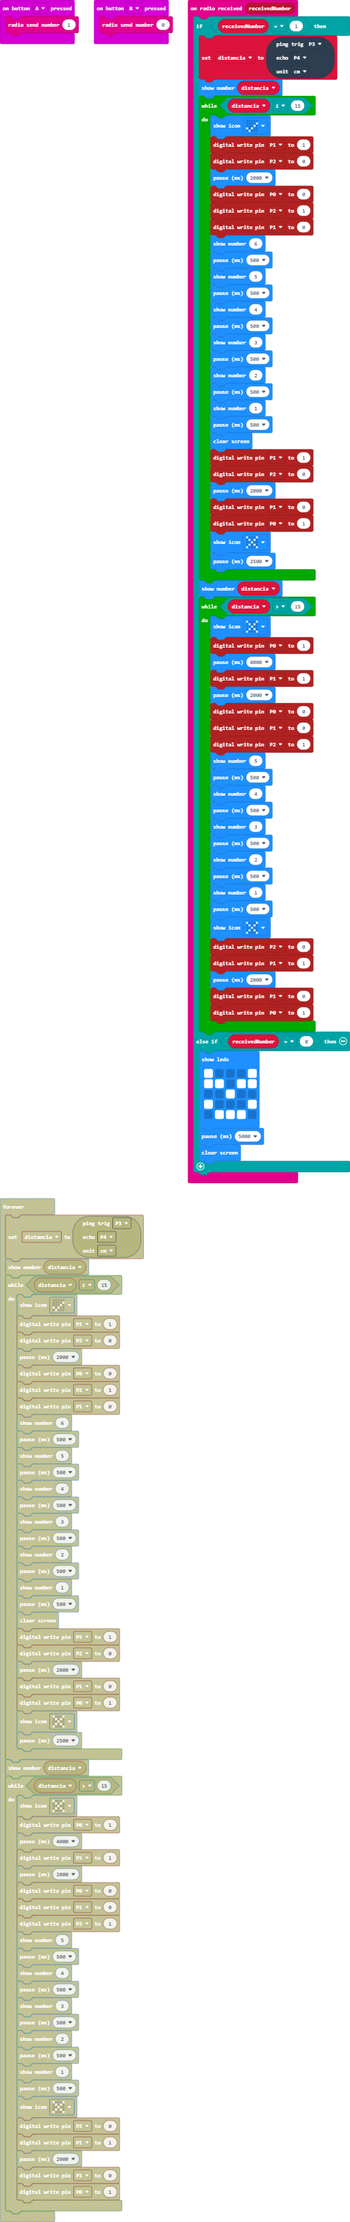
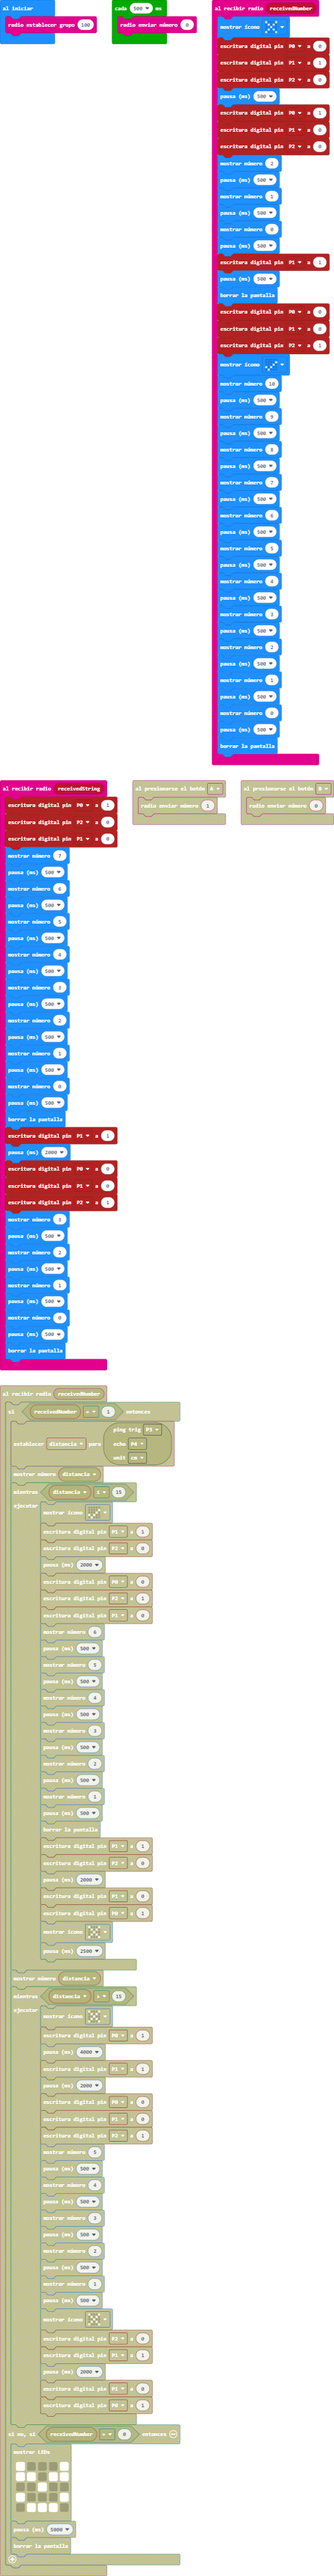
Actualizar main.blocks, main.ts

diff --git a/main.ts b/main.ts
@@ -1,86 +1,89 @@
 enum RadioMessage {
     message1 = 49434
 }
-let distancia = 0
 radio.onReceivedNumber(function (receivedNumber) {
-    if (receivedNumber == 1) {
-        distancia = sonar.ping(
-        DigitalPin.P3,
-        DigitalPin.P4,
-        PingUnit.Centimeters
-        )
-        basic.showNumber(distancia)
-        while (distancia <= 15) {
-            basic.showIcon(IconNames.Yes)
-            pins.digitalWritePin(DigitalPin.P1, 1)
-            pins.digitalWritePin(DigitalPin.P2, 0)
-            basic.pause(2000)
-            pins.digitalWritePin(DigitalPin.P0, 0)
-            pins.digitalWritePin(DigitalPin.P2, 1)
-            pins.digitalWritePin(DigitalPin.P1, 0)
-            basic.showNumber(6)
-            basic.pause(500)
-            basic.showNumber(5)
-            basic.pause(500)
-            basic.showNumber(4)
-            basic.pause(500)
-            basic.showNumber(3)
-            basic.pause(500)
-            basic.showNumber(2)
-            basic.pause(500)
-            basic.showNumber(1)
-            basic.pause(500)
-            basic.clearScreen()
-            pins.digitalWritePin(DigitalPin.P1, 1)
-            pins.digitalWritePin(DigitalPin.P2, 0)
-            basic.pause(2000)
-            pins.digitalWritePin(DigitalPin.P1, 0)
-            pins.digitalWritePin(DigitalPin.P0, 1)
-            basic.showIcon(IconNames.No)
-            basic.pause(2500)
-        }
-        basic.showNumber(distancia)
-        while (distancia > 15) {
-            basic.showIcon(IconNames.No)
-            pins.digitalWritePin(DigitalPin.P0, 1)
-            basic.pause(4000)
-            pins.digitalWritePin(DigitalPin.P1, 1)
-            basic.pause(2000)
-            pins.digitalWritePin(DigitalPin.P0, 0)
-            pins.digitalWritePin(DigitalPin.P1, 0)
-            pins.digitalWritePin(DigitalPin.P2, 1)
-            basic.showNumber(5)
-            basic.pause(500)
-            basic.showNumber(4)
-            basic.pause(500)
-            basic.showNumber(3)
-            basic.pause(500)
-            basic.showNumber(2)
-            basic.pause(500)
-            basic.showNumber(1)
-            basic.pause(500)
-            basic.showIcon(IconNames.No)
-            pins.digitalWritePin(DigitalPin.P2, 0)
-            pins.digitalWritePin(DigitalPin.P1, 1)
-            basic.pause(2000)
-            pins.digitalWritePin(DigitalPin.P1, 0)
-            pins.digitalWritePin(DigitalPin.P0, 1)
-        }
-    } else if (receivedNumber == 0) {
-        basic.showLeds(`
-            # . . . #
-            # # . # #
-            . . # . .
-            # . . . #
-            . # # # .
-            `)
-        basic.pause(5000)
-        basic.clearScreen()
-    }
+    basic.showIcon(IconNames.No)
+    pins.digitalWritePin(DigitalPin.P0, 0)
+    pins.digitalWritePin(DigitalPin.P1, 1)
+    pins.digitalWritePin(DigitalPin.P2, 0)
+    basic.pause(500)
+    pins.digitalWritePin(DigitalPin.P0, 1)
+    pins.digitalWritePin(DigitalPin.P1, 0)
+    pins.digitalWritePin(DigitalPin.P2, 0)
+    basic.showNumber(2)
+    basic.pause(500)
+    basic.showNumber(1)
+    basic.pause(500)
+    basic.showNumber(0)
+    basic.pause(500)
+    pins.digitalWritePin(DigitalPin.P1, 1)
+    basic.pause(500)
+    basic.clearScreen()
+    pins.digitalWritePin(DigitalPin.P0, 0)
+    pins.digitalWritePin(DigitalPin.P1, 0)
+    pins.digitalWritePin(DigitalPin.P2, 1)
+    basic.showIcon(IconNames.Yes)
+    basic.showNumber(10)
+    basic.pause(500)
+    basic.showNumber(9)
+    basic.pause(500)
+    basic.showNumber(8)
+    basic.pause(500)
+    basic.showNumber(7)
+    basic.pause(500)
+    basic.showNumber(6)
+    basic.pause(500)
+    basic.showNumber(5)
+    basic.pause(500)
+    basic.showNumber(4)
+    basic.pause(500)
+    basic.showNumber(3)
+    basic.pause(500)
+    basic.showNumber(2)
+    basic.pause(500)
+    basic.showNumber(1)
+    basic.pause(500)
+    basic.showNumber(0)
+    basic.pause(500)
+    basic.clearScreen()
 })
-input.onButtonPressed(Button.A, function () {
-    radio.sendNumber(1)
+radio.onReceivedString(function (receivedString) {
+    pins.digitalWritePin(DigitalPin.P0, 1)
+    pins.digitalWritePin(DigitalPin.P2, 0)
+    pins.digitalWritePin(DigitalPin.P1, 0)
+    basic.showNumber(7)
+    basic.pause(500)
+    basic.showNumber(6)
+    basic.pause(500)
+    basic.showNumber(5)
+    basic.pause(500)
+    basic.showNumber(4)
+    basic.pause(500)
+    basic.showNumber(3)
+    basic.pause(500)
+    basic.showNumber(2)
+    basic.pause(500)
+    basic.showNumber(1)
+    basic.pause(500)
+    basic.showNumber(0)
+    basic.pause(500)
+    basic.clearScreen()
+    pins.digitalWritePin(DigitalPin.P1, 1)
+    basic.pause(2000)
+    pins.digitalWritePin(DigitalPin.P0, 0)
+    pins.digitalWritePin(DigitalPin.P1, 0)
+    pins.digitalWritePin(DigitalPin.P2, 1)
+    basic.showNumber(3)
+    basic.pause(500)
+    basic.showNumber(2)
+    basic.pause(500)
+    basic.showNumber(1)
+    basic.pause(500)
+    basic.showNumber(0)
+    basic.pause(500)
+    basic.clearScreen()
 })
-input.onButtonPressed(Button.B, function () {
+radio.setGroup(100)
+loops.everyInterval(500, function () {
     radio.sendNumber(0)
 })
